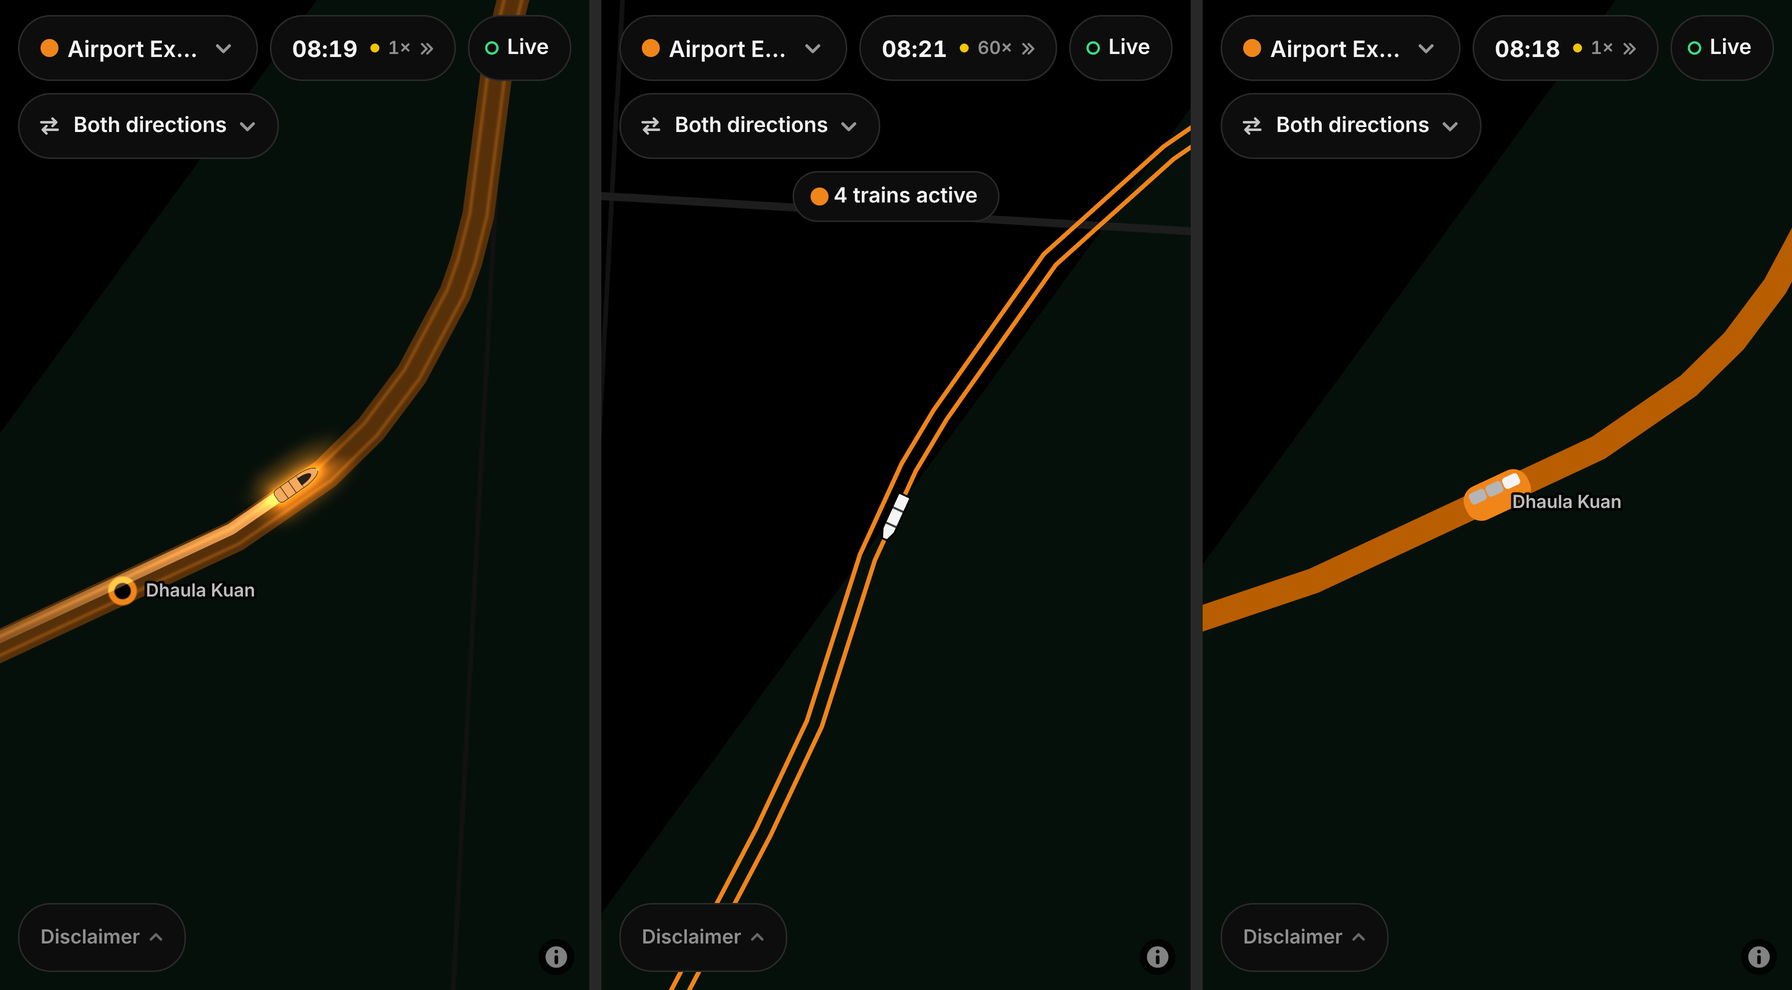
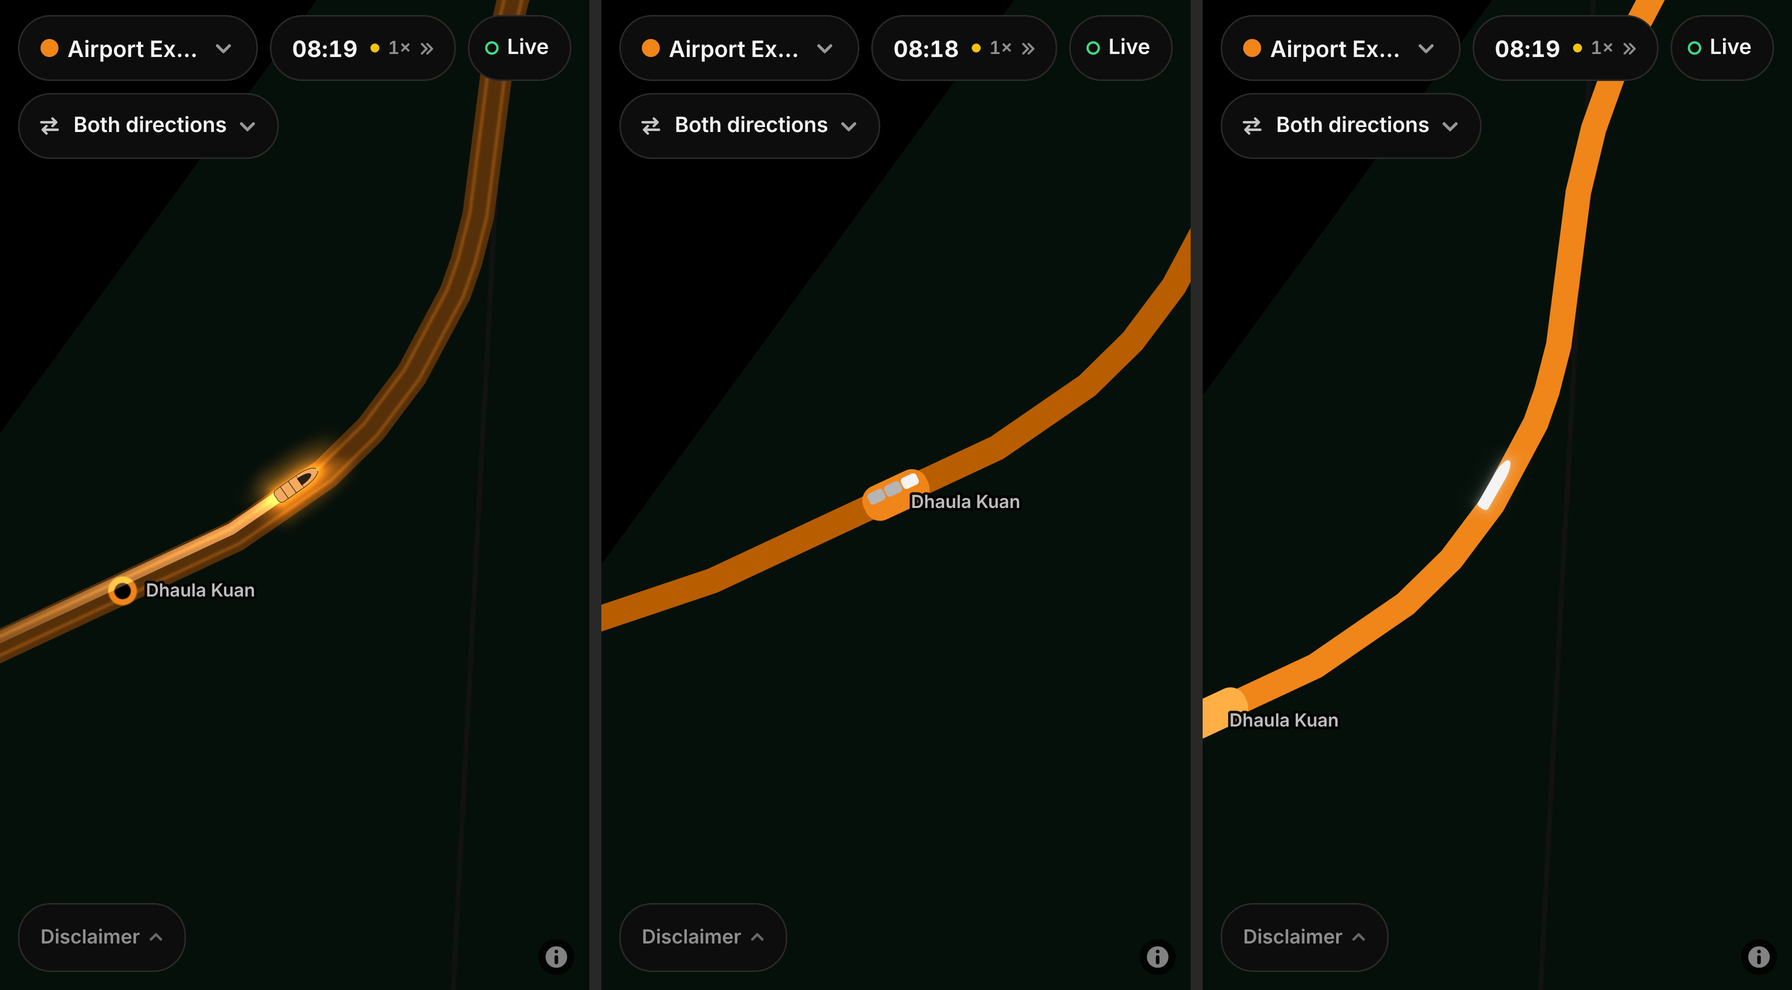
Full-strength line colours, glowing bullet trains, dots when zoomed out
- Track is each line's colour at full strength again; platforms a step
  lighter (OKLab, hue kept).
- Trains are a minimal bullet: one solid --ink fill with a faint glow drawn
  in the same sprite (no blur), fading out before the sprite's edge.
- Below zoom 12 a train is a dot to save space; between 12 and 12.8 the
  shapes blend so the dot grows into the bullet without a jump.

Claude-Session: https://claude.ai/code/session_01UZxfWzKVYAHWCsTLyJf7CS

diff --git a/index.html b/index.html
@@ -329,9 +329,9 @@ const SHOW = {BLUE:'#2f86f0',VIOLET:'#a05bd0',MAGENTA:'#e0329f',GRAY:'#a7adb5',R
 const DEFAULT = ['ORANGE/AIRPORT'];
 const LINES_KEY = 'maptro-lines-v2'; // v2: the default became the Airport Express, so earlier saved picks start fresh
 const INK = [.957, .957, .957]; // --ink, the picked train
-// One light, three tones of each line's colour: the track at rest, its platforms a step up, the trains at full strength.
+// Each line in its own colour at full strength; its platforms a step lighter. Trains are --ink.
 // Tones change lightness in OKLab and keep the hue, so a darker yellow stays yellow rather than going grey.
-const TONES = { track: .8, platform: 1 };
+const TONES = { track: 1, platform: 1.2 };
 const SPEEDS = [1, 10, 60]; // simulation only; live time always runs at 1x
 // Basemap: OpenStreetMap data as OpenFreeMap vector tiles (free, no key, made for hotlinking), drawn in Maptro's own
 // true-black style. No symbol layers, so no fonts or sprites load; station names are ours. Tokens in DESIGN.md.
@@ -418,24 +418,25 @@ void main(){
   float px=a_kind>1.5||a_kind<.5?u_tl*a_size+2.*u_pad:a_size*u_scale;
   gl_Position=vec4(s/(u_res*.5)*c.w,0.,c.w);gl_PointSize=px;v_px=px;v_sz=a_size;v_col=a_col;v_kind=a_kind;
 }`;
-// Trains and platforms share one shape: a rounded box whose corner radius comes from the same unit as the track.
-// A train is three coaches with gaps between them, the leading coach lit. A platform is the track widening, a train long,
-// with corners concentric to the train's so a train stopped inside it sits exactly within it.
+// A train is a bullet seen from above: one solid colour, a square-cornered tail (corners from the same unit as the
+// track) and a tapered nose that points the way it travels, with a faint glow around it.
+// A platform is the track widening, a train long, its corners concentric with a train's tail.
 const PT_FS = `precision highp float;varying vec4 v_col;varying float v_kind,v_px,v_sz;varying vec2 v_dir;
-uniform float u_tl,u_tw,u_coach,u_gap,u_rad;uniform vec2 u_pl;uniform vec3 u_lead;
+uniform float u_tl,u_tw,u_gap,u_rad,u_icon;uniform vec2 u_pl;
 float rbox(vec2 q,vec2 h,float r){vec2 d=abs(q)-h+r;return length(max(d,0.))+min(max(d.x,d.y),0.)-r;}
+float ell(vec2 q,vec2 r){float k=length(q/r);vec2 g=q/(r*r)/max(k,1e-4);return (k-1.)/max(length(g),1e-4);}
+float bullet(vec2 q,float L,float W,float r){float hl=L*.5,hw=W*.5,nose=min(W*1.6,L*.4),x0=hl-nose;
+  return min(rbox(q-vec2((x0-hl)*.5,0.),vec2((x0+hl)*.5,hw),r),ell(q-vec2(x0,0.),vec2(nose,hw)));}
 void main(){vec2 p=vec2(gl_PointCoord.x*2.-1.,1.-gl_PointCoord.y*2.);
   vec2 q=p*v_px*.5;q=vec2(dot(q,v_dir),dot(q,vec2(-v_dir.y,v_dir.x)));
   if(v_kind>.5&&v_kind<1.5){vec2 h=u_pl*.5;float d=rbox(q,h,min(h.y,u_rad+(u_pl.y-u_tw)*.5));
     gl_FragColor=vec4(v_col.rgb,1.)*clamp(.5-d,0.,1.)*v_col.a;return;}
-  float L=u_tl*v_sz,W=u_tw*v_sz,r=u_rad*v_sz,cl=L/3.,d;
-  float k=u_coach>.5?clamp(floor(q.x/cl+.5),-1.,1.):0.; // which coach this pixel belongs to
-  if(u_coach>.5)d=rbox(q-vec2(k*cl,0.),vec2(cl*.5-u_gap*.5,W*.5),r);else d=rbox(q,vec2(L*.5,W*.5),r);
-  if(v_kind>1.5){float a=clamp(1.-abs(rbox(q,vec2(L*.5,W*.5),r)-u_gap*2.5)/(u_gap*.9),0.,1.);gl_FragColor=vec4(1.)*a*v_col.a;return;}
-  // the leading coach is lit, so you can tell which way a train is going without an arrow
-  float lead=u_coach>.5?step(.5,k):smoothstep(L*.12,L*.2,q.x);
-  vec3 col=v_col.rgb*mix(u_lead.x,1.,lead);
-  gl_FragColor=vec4(col,1.)*clamp(.5-d,0.,1.);
+  float L=u_tl*v_sz,W=u_tw*v_sz,d=mix(length(q)-W*.85,bullet(q,L,W,u_rad*v_sz),u_icon);
+  if(v_kind>1.5){float a=clamp(1.-abs(d-u_gap*2.5)/(u_gap*.9),0.,1.);gl_FragColor=vec4(1.)*a*v_col.a;return;}
+  // the glow fades out before the sprite's edge, so its square never shows
+  float edge=(1.-max(abs(p.x),abs(p.y)))*v_px*.5;
+  float glow=.26*exp(-max(d,0.)/(W*.38))*smoothstep(0.,W*.9,edge);
+  gl_FragColor=vec4(v_col.rgb,1.)*max(clamp(.5-d,0.,1.),glow);
 }`;
 
 class Buf { // growable Float32 / Uint16 writer
@@ -464,7 +465,9 @@ function sizes(z) {
   const band = 2 * u + g, lane = (u + g) / 2, tl = u * 4.6;
   // zoomed out a platform is round; from about zoom 12 it stretches to hold a whole train
   const m = u * .45, pw = band + 2 * m, pl = pw + (tl + 2 * m + 2 * g - pw) * Math.max(0, Math.min(1, (z - 11.4) / 1.4));
-  return { u, tw: u, tl, g, band, lane, rad: u * .3, pw, pl, st: Math.max(pw, pl * .55) };
+  // zoomed out a train is a dot, to save space; between zoom 12 and 12.8 it grows into the bullet
+  const icon = Math.max(0, Math.min(1, (z - 12) / .8));
+  return { u, tw: u, tl, g, band, lane, rad: u * .3, pw, pl, st: Math.max(pw, pl * .55), icon };
 }
 function makeGpu() {
   const g = { lineV: new Buf(Float32Array), lineI: new Buf(Uint16Array), stV: new Buf(Float32Array),
@@ -513,13 +516,13 @@ function makeGpu() {
     unbind(gl, 5);
     // platforms sit on the track, under the trains
     const P = g.pt; gl.useProgram(P.p); gl.uniformMatrix4fv(P.u.u_m, false, M); gl.uniform2fv(P.u.u_res, res);
-    gl.uniform1f(P.u.u_tl, tl); gl.uniform1f(P.u.u_tw, tw); gl.uniform1f(P.u.u_coach, S.u >= 4.6 ? 1 : 0);
-    gl.uniform1f(P.u.u_gap, S.g * dpr); gl.uniform1f(P.u.u_rad, S.rad * dpr); gl.uniform2f(P.u.u_pl, S.pl * dpr, S.pw * dpr); gl.uniform3f(P.u.u_lead, .74, .74, .74);
+    gl.uniform1f(P.u.u_tl, tl); gl.uniform1f(P.u.u_tw, tw); 
+    gl.uniform1f(P.u.u_gap, S.g * dpr); gl.uniform1f(P.u.u_rad, S.rad * dpr); gl.uniform1f(P.u.u_icon, S.icon); gl.uniform2f(P.u.u_pl, S.pl * dpr, S.pw * dpr); 
     const pts = (buf, data, scale, o, pad, again) => { if (!data.n) return; gl.bindBuffer(gl.ARRAY_BUFFER, buf); if (data !== g.stV && !again) gl.bufferData(gl.ARRAY_BUFFER, data.view(), gl.DYNAMIC_DRAW);
       bindAttrs(gl, PT_LAYOUT, 10); gl.uniform1f(P.u.u_scale, scale * dpr); gl.uniform1f(P.u.u_off, o); gl.uniform1f(P.u.u_pad, pad); gl.drawArrays(gl.POINTS, 0, data.n / 10); };
     pts(g.b.stV, g.stV, S.pl + 2, 0, 0);
     // trains, then the selection outline
-    pts(g.b.headV, g.headV, 1, off, 2 * dpr);
+    pts(g.b.headV, g.headV, 1, off, tw * 1.4);
     pts(g.b.fxV, g.fxV, 1, off, 6 * dpr);
     unbind(gl, 5);
     gl.bindBuffer(gl.ARRAY_BUFFER, null); gl.bindBuffer(gl.ELEMENT_ARRAY_BUFFER, null);

diff --git a/DESIGN.md b/DESIGN.md
@@ -42,8 +42,8 @@ Rules:
 - State colours are few and small: the green dot beside "Live", amber when the clock runs fast, a white fill when Follow is on.
 - The primary action ("Skip to 8 am", "Tap to reload", Follow when on) is white with black text.
 - Line colours are DMRC's own, nudged brighter where they read too dark on black (`SHOW` in `index.html`). They are drawn flat: no gradients, glow, outlines or added light.
-- **One light, three tones.** Each line's colour comes in three tones, made by scaling its OKLab lightness so the hue holds (a darker yellow stays yellow, not olive): the track at rest is 80% (`TONES.track`), a platform is the full colour, and the trains are `--ink`. Brighter means "something is here". Trains are the brightest thing on the map and the same white on every line; the track under a train says which line it is.
-- The leading coach of each train is `--ink`; the others are `--ink` at 74%. That is the only direction cue.
+- **Full-strength colour.** The track is each line's colour at full strength (`TONES.track` = 1), as bright as the very first Maptro; a toned-down track was tried in 1.2 and read as dull. Platforms are a step lighter (`TONES.platform` = 1.2, OKLab lightness, hue kept).
+- Trains are `--ink`, one solid colour, with a faint glow around them. They are the brightest thing on the map and the same on every line; the track under a train says which line it is.
 
 ### Basemap
 OpenStreetMap data, served as vector tiles by OpenFreeMap (free, no key, made to be linked from other sites), drawn in Maptro's own style (`BLACK_STYLE` in `index.html`):
@@ -103,19 +103,19 @@ Shown under the line picker when exactly one line is chosen. It is a native `<se
 "19 trains active", with the line's dot: a small pill that drops in under the controls for 2.6 seconds when the page opens, the lines change (once the picker closes) or the direction changes. It replaced the number that sat in the line picker, which read as a static label. Not shown when no train is running (the quiet-hours sheet says that).
 
 ### Trains, track and stations: one system
-The first draft of 1.2 showed that the map, the track and the trains read as three design languages: the basemap was flat filled shapes, the track was outlined rails, the trains were a white sprite with a sharp nose and a rim. Everything is now built from the basemap's own language: **flat fills, rounded geometry, no outlines, one unit.**
+The first draft of 1.2 showed that the map, the track and the trains read as three design languages: the basemap was flat filled shapes, the track was outlined rails, the trains were a white sprite with a sharp nose and a rim. Everything is now built from the basemap's own language: **flat fills, rounded geometry, no outlines, one unit.** The one exception is the trains' faint glow, kept on purpose so a train reads as the live thing on the map.
 
 **The unit.** `u` is a train's width (`sizes()` in `index.html`): 3px zoomed out, growing to 8px. Everything else is a multiple of it.
 
 | Part | Size | Corner radius |
 |---|---|---|
-| Train | `u` wide, `4.6u` long, three coaches with gaps of `g = .12u` | `.3u` |
-| Track | `2u + g`: exactly two trains, one per direction, with `g` between | round joins, like the roads |
+| Train | zoomed in: `u` wide, `4.6u` long, a bullet with a square-cornered tail and tapered nose. Below zoom 12: a dot `1.7u` across | tail `.3u` |
+| Track | `2u + g` (`g = .12u`): exactly two trains, one per direction | round joins, like the roads |
 | Platform | track width plus `.45u` all round; zoomed out a round mark, from about zoom 11.5 it stretches to hold a train | concentric with a train's: `.3u + .45u` |
 | Roads | MapLibre lines with round caps and joins | |
 
 - **Track:** one flat band in the line's track tone, two trains wide. Trains run on the left side, as Delhi's do, so the two directions never overlap. A train fills its half of the band edge to edge.
-- **Trains:** three flat coaches with round corners, the leading one lit. No windscreen, headlight, glow, rim or trail. The heading is averaged over 90 m of track, so trains turn smoothly through bends. The picked train gets a white outline, `2.5g` out, that pulses.
+- **Trains:** zoomed in, a minimal bullet: one solid `--ink` fill with a faint glow (26% at its edge, gone within about a train's width, drawn in the same sprite, so no blur), its nose showing which way it travels. Zoomed out past 12 it is a dot, to save space; between zoom 12 and 12.8 the dot grows into the bullet (the shapes are blended, so there is no jump). No windscreen, coaches, rim or trail. Three coaches were tried in 1.2 and read as dots. The heading is averaged over 90 m of track, so trains turn smoothly through bends. The picked train gets a white outline, `2.5g` out, that pulses.
 - **Stations are drawn as their platforms:** the track widening, in the line's full colour, a train long, so a train visibly pulls in and stops inside it. Each line gets its own platform where it stops, so an interchange shows each line's platform where it really is; interchanges are told apart by their bolder label.
   - Real station footprints were considered and not used: most of Delhi's stations are underground and have no footprint, the elevated ones are a few pixels across until zoom 15, and OpenStreetMap outlines vary in quality. The platform says the same thing (a train stops here, along this track) at every zoom.
 - **Basemap:** unchanged colours; roads now have round caps and joins, the same geometry as the track.
@@ -205,7 +205,7 @@ From Kiron's record, and they apply here too:
 ## 11. Checklist for any change
 
 - [ ] Uses the tokens above; colour only for lines and state.
-- [ ] Map shapes come from the unit `u` and its radii; flat fills, no outlines, glow or gradients.
+- [ ] Map shapes come from the unit `u` and its radii; flat fills, no outlines or gradients; glow only on trains.
 - [ ] System font only.
 - [ ] No new text that could be cut.
 - [ ] DOM motion is transform/opacity only, on an existing curve; no blur or shadow on panels.

diff --git a/README.md b/README.md
@@ -19,7 +19,7 @@ Then serve the folder (`python3 -m http.server`) and open index.html.
 ## The page
 - `index.html` is the whole app, with no build step. It draws the lines, stations and trains with WebGL as a MapLibre GL custom layer over an OpenStreetMap basemap (OpenFreeMap vector tiles in Maptro's own true-black style). MapLibre 4.7.1 comes from jsDelivr (unpkg as a second try). If neither loads, the same WebGL renderer runs on its own canvas with its own pan and pinch, just without the basemap.
 - It opens on the Airport Express. Pick lines from the dropdown; only those lines, their stations and their trains are drawn. Station names appear by zoom level and never overlap. The choice is remembered in the browser.
-- Trains glide every frame (`requestAnimationFrame`, so 120 Hz on ProMotion phones) drawn from above as white three-coach trains, the leading coach lit so you can see which way they're heading. The track is a flat band in the line's colour, two trains wide, and each direction keeps to its own (left-hand) side. Stations are drawn as their platforms. Every shape comes from one unit, a train's width (see DESIGN.md). With one line chosen, a direction dropdown shows both directions or just one, and a note says how many trains are active. Tap a train for its next stop and Follow it; tap a station for its next departures. When no trains run, Skip to 8 am starts a simulation, and only then can the clock run at 1×, 10× or 60×.
+- Trains glide every frame (`requestAnimationFrame`, so 120 Hz on ProMotion phones) drawn as white dots when zoomed out and, zoomed in, as white bullets with a faint glow, nose first so you can see which way they're heading. The track is a flat band in the line's full colour, two trains wide, and each direction keeps to its own (left-hand) side. Stations are drawn as their platforms. Every shape comes from one unit, a train's width (see DESIGN.md). With one line chosen, a direction dropdown shows both directions or just one, and a note says how many trains are active. Tap a train for its next stop and Follow it; tap a station for its next departures. When no trains run, Skip to 8 am starts a simulation, and only then can the clock run at 1×, 10× or 60×.
 
 ## Design
 How it looks, moves and behaves, and the checklist for any change: [DESIGN.md](DESIGN.md).
